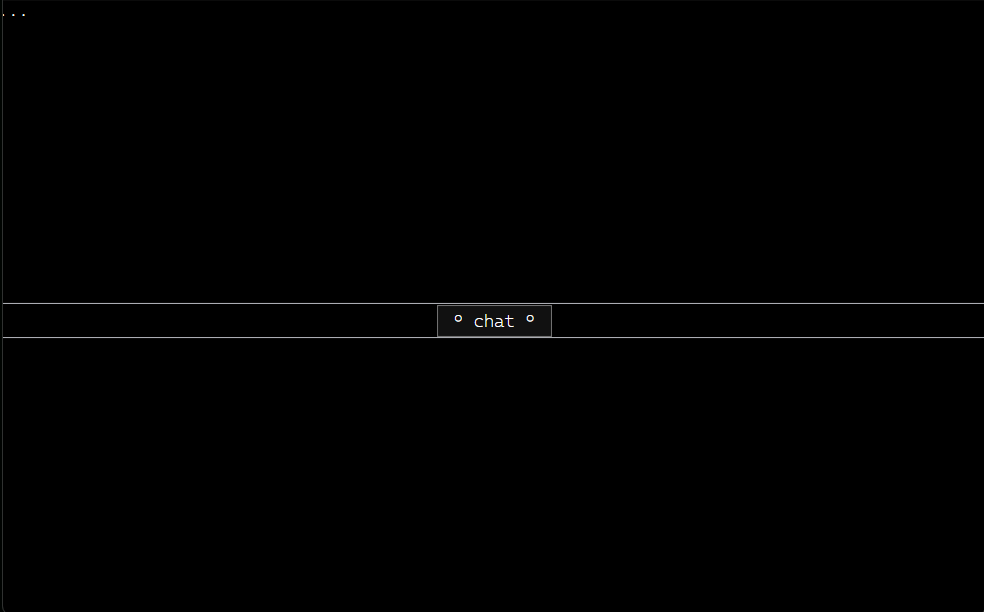
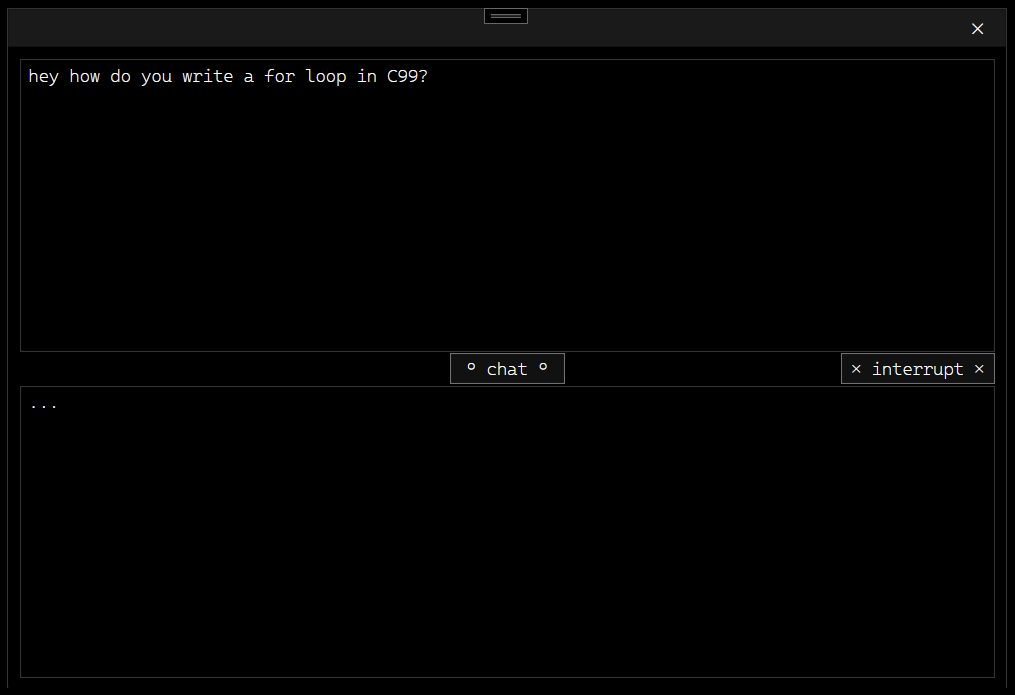
cancellation token for interrupt button, formatting without jinja with mistral, style

Changed region(s): [[0.0, 0.0, 1.0, 0.1242], [0.0, 0.4657, 1.0, 0.5588], [0.0, 0.4657, 0.0305, 0.4967]]

diff --git a/MainWindow.xaml b/MainWindow.xaml
@@ -5,12 +5,90 @@
         xmlns:mc="http://schemas.openxmlformats.org/markup-compatibility/2006"
         xmlns:local="clr-namespace:UI"
         mc:Ignorable="d"
-        Title=" " Height="530" Width="800">
-    <Grid Background="Black">
-        <TextBox x:Name="MessageText" HorizontalAlignment="Center" TextWrapping="Wrap" Text="..." VerticalAlignment="Top" Width="780" Height="234" Background="Black" FontFamily="Cascadia Mono ExtraLight" SelectionBrush="#FF022200" Foreground="White" FontSize="14" CaretBrush="White" AcceptsReturn="True" MaxLines="1729" RenderTransformOrigin="0.5,0.5" Margin="0,10,0,0" />
-        <Button x:Name="ChatButton" Content="° chat᪙ °" HorizontalAlignment="Center" Margin="0,245,0,0" VerticalAlignment="Top" Width="92" AutomationProperties.Name="ChatButton" Background="#FF111111" FontFamily="Cascadia Mono ExtraLight" FontSize="14" Foreground="White" Height="25" Click="ChatButtonClick"/>
-        <Button x:Name="InterruptButton" Content="⨯ interrupt ⨯" HorizontalAlignment="Left" VerticalAlignment="Center" Width="123" AutomationProperties.Name="ChatButton" Background="#FF111111" FontFamily="Cascadia Mono ExtraLight" FontSize="14" Foreground="White" Height="25" Click="InterruptButtonClick" Margin="667,0,0,0"/>
+        Title=" " Height="544" Width="800"
+        Background="Black"
+        WindowStyle="None"
+        AllowsTransparency="False">
+    <Window.Resources>
+        <SolidColorBrush x:Key="TextBoxBorderNormal" Color="#333333"/>
+        <Style x:Key="NoFocusBlueTextBox" TargetType="{x:Type TextBox}">
+            <Setter Property="Background" Value="Black"/>
+            <Setter Property="Foreground" Value="White"/>
+            <Setter Property="CaretBrush" Value="White"/>
+            <Setter Property="BorderBrush" Value="{StaticResource TextBoxBorderNormal}"/>
+            <Setter Property="BorderThickness" Value="1"/>
+            <Setter Property="Padding" Value="4"/>
+            <Setter Property="FocusVisualStyle" Value="{x:Null}"/>
 
-        <TextBox x:Name="TheirResponse" HorizontalAlignment="Center" Margin="0,270,0,0" TextWrapping="Wrap" Text="" VerticalAlignment="Top" Width="780" Height="234" Background="Black" IsReadOnly="True" SelectionBrush="#FF89FFD9" Foreground="White" MaxLines="1729" FontFamily="Cascadia Mono ExtraLight" FontSize="14"/>
-    </Grid>
+            <!-- important: replace template so focus trigger can’t override border brush -->
+            <Setter Property="Template">
+                <Setter.Value>
+                    <ControlTemplate TargetType="{x:Type TextBox}">
+                        <Border x:Name="Bd"
+                            Background="{TemplateBinding Background}"
+                            BorderBrush="{TemplateBinding BorderBrush}"
+                            BorderThickness="{TemplateBinding BorderThickness}"
+                            SnapsToDevicePixels="True">
+                            <ScrollViewer x:Name="PART_ContentHost"/>
+                        </Border>
+
+                        <ControlTemplate.Triggers>
+                            <!-- keep the SAME border when focused -->
+                            <Trigger Property="IsKeyboardFocused" Value="True">
+                                <Setter TargetName="Bd"
+                                    Property="BorderBrush"
+                                    Value="{StaticResource TextBoxBorderNormal}"/>
+                            </Trigger>
+
+                            <!-- optional: also keep same on mouse over -->
+                            <Trigger Property="IsMouseOver" Value="True">
+                                <Setter TargetName="Bd"
+                                    Property="BorderBrush"
+                                    Value="{StaticResource TextBoxBorderNormal}"/>
+                            </Trigger>
+
+                            <Trigger Property="IsEnabled" Value="False">
+                                <Setter TargetName="Bd" Property="Opacity" Value="0.55"/>
+                            </Trigger>
+                        </ControlTemplate.Triggers>
+                    </ControlTemplate>
+                </Setter.Value>
+            </Setter>
+        </Style>
+    </Window.Resources>
+    <WindowChrome.WindowChrome>
+        <!-- CaptionHeight defines the draggable area at the top -->
+        <!-- CornerRadius="0" ensures square corners on supported versions -->
+        <WindowChrome CaptionHeight="30" 
+	                  ResizeBorderThickness="5" 
+	                  CornerRadius="0"
+	                  GlassFrameThickness="0"/>
+    </WindowChrome.WindowChrome>
+    <Border BorderThickness="1" BorderBrush="#333333">
+        <Grid Background="Black">
+            <Grid.RowDefinitions>
+                <RowDefinition Height="30"/>
+                <RowDefinition Height="*"/>
+            </Grid.RowDefinitions>
+
+            <Grid Grid.Row="0" Background="#1A1A1A">
+                <StackPanel Orientation="Horizontal" VerticalAlignment="Center" Margin="10,0">
+                    <TextBlock Text="" Foreground="Gray" FontFamily="Cascadia Mono ExtraLight" FontSize="12"/>
+                </StackPanel>
+
+                <StackPanel Orientation="Horizontal" HorizontalAlignment="Right" WindowChrome.IsHitTestVisibleInChrome="True">
+                    <Button Content="✕" Width="45" Background="Transparent" Foreground="White" BorderThickness="0" Click="CloseButton_Click"/>
+                </StackPanel>
+            </Grid>
+
+            <Grid Grid.Row="1" Background="Black" Margin="0,0,0,-3">
+                <TextBox x:Name="MessageText" HorizontalAlignment="Center" TextWrapping="Wrap" Text="" VerticalAlignment="Top" Width="780" Height="234" Background="Black" FontFamily="Cascadia Mono ExtraLight" SelectionBrush="#FF022200" Foreground="White" FontSize="14" CaretBrush="White" AcceptsReturn="True" MaxLines="1729" RenderTransformOrigin="0.5,0.5" Margin="0,10,0,0" FocusVisualStyle="{x:Null}" Style="{StaticResource NoFocusBlueTextBox}" />
+                
+                <Button x:Name="ChatButton" Content="° chat °" HorizontalAlignment="Center" VerticalAlignment="Center" Width="92" AutomationProperties.Name="ChatButton" Background="#FF111111" FontFamily="Cascadia Mono ExtraLight" FontSize="14" Foreground="White" Height="25" Click="ChatButtonClick"/>
+                <Button x:Name="InterruptButton" Content="⨯ interrupt ⨯" HorizontalAlignment="Right" VerticalAlignment="Center" Margin="0,0,9,0" Width="123" AutomationProperties.Name="InterruptButton" Background="#FF111111" FontFamily="Cascadia Mono ExtraLight" FontSize="14" Foreground="White" Height="25" Click="InterruptButtonClick"/>
+
+                <TextBox x:Name="TheirResponse" HorizontalAlignment="Center" Margin="0,0,0,10" TextWrapping="Wrap" Text="..." VerticalAlignment="Bottom" Width="780" Height="234" Background="Black" IsReadOnly="True" SelectionBrush="#FF89FFD9" Foreground="White" MaxLines="1729" FontFamily="Cascadia Mono ExtraLight" FontSize="14" FocusVisualStyle="{x:Null}" Style="{StaticResource NoFocusBlueTextBox}" />
+            </Grid>
+        </Grid>
+    </Border>
 </Window>

diff --git a/MainWindow.xaml.cs b/MainWindow.xaml.cs
@@ -12,6 +12,8 @@ namespace UI {
 		private readonly CancellationTokenSource _cts = new();
 		private float _getTemperature() => _expectingCodeResponse ? 0.115f : 0.7f;
 
+		private bool InterruptButtonEnabled { get; set; } = true;
+
 		public MainWindow(IChatClient client, bool? codeMode = true) {
 			_client = client;
 
@@ -28,11 +30,11 @@ namespace UI {
 
 			InitializeComponent();
 
-			InterruptButton.IsEnabled = false;
+			ToggleInterruptButton();
 		}
 
 		internal void ToggleInterruptButton() {
-			InterruptButton.IsEnabled = !InterruptButton.IsEnabled;
+			InterruptButtonEnabled = !InterruptButtonEnabled;
 		}
 
 		internal async void ChatButtonClick(object sender, RoutedEventArgs e) {
@@ -52,6 +54,10 @@ namespace UI {
 		}
 
 		internal async void InterruptButtonClick(object sender, RoutedEventArgs e) {
+			if (!InterruptButtonEnabled) {
+				return;
+			}
+
 			try {
 				await _cts.CancelAsync();
 				TheirResponse.Text = _userFriendlyStoppedResponse;
@@ -73,5 +79,7 @@ namespace UI {
 				TheirResponse.Text += update.Text;
 			}
 		}
+
+		internal void CloseButton_Click(object sender, RoutedEventArgs e) => this.Close();
 	}
 }

diff --git a/Constants.cs b/Constants.cs
@@ -14,5 +14,8 @@
 		internal const string _mistral3DefaultInstruction = "You are a helpful C# programming assistant.";
 		internal const string _userFriendlyErrorResponse = "I'm sorry, something went wrong. I cannot respond.";
 		internal const string _userFriendlyStoppedResponse = "(Stopped.)";
+
+		internal const string _appContextSwitchForSelectionBrush =
+			"Switch.System.Windows.Controls.Text.UseAdornerForTextboxSelectionRendering";
 	}
 }

diff --git a/App.xaml.cs b/App.xaml.cs
@@ -5,6 +5,9 @@ using System.Windows;
 namespace UI {
 	using static Constants;
 	public partial class App : Application {
+		public App() {
+			AppContext.SetSwitch(_appContextSwitchForSelectionBrush, false);
+		}
 
 		protected override void OnStartup(StartupEventArgs e) {
 			base.OnStartup(e);
